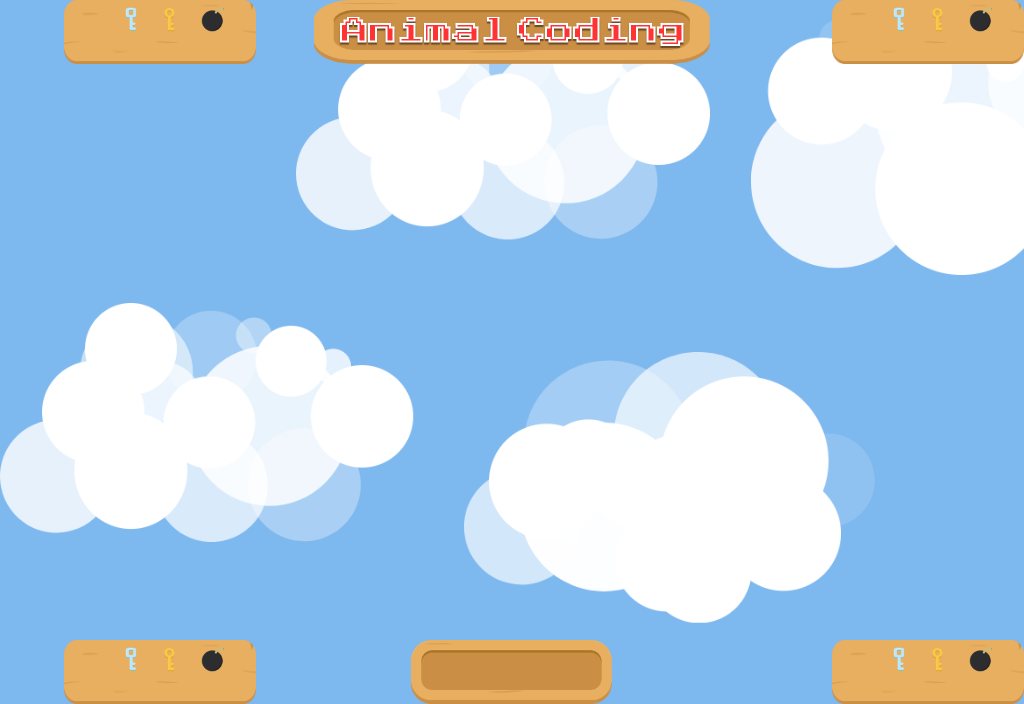
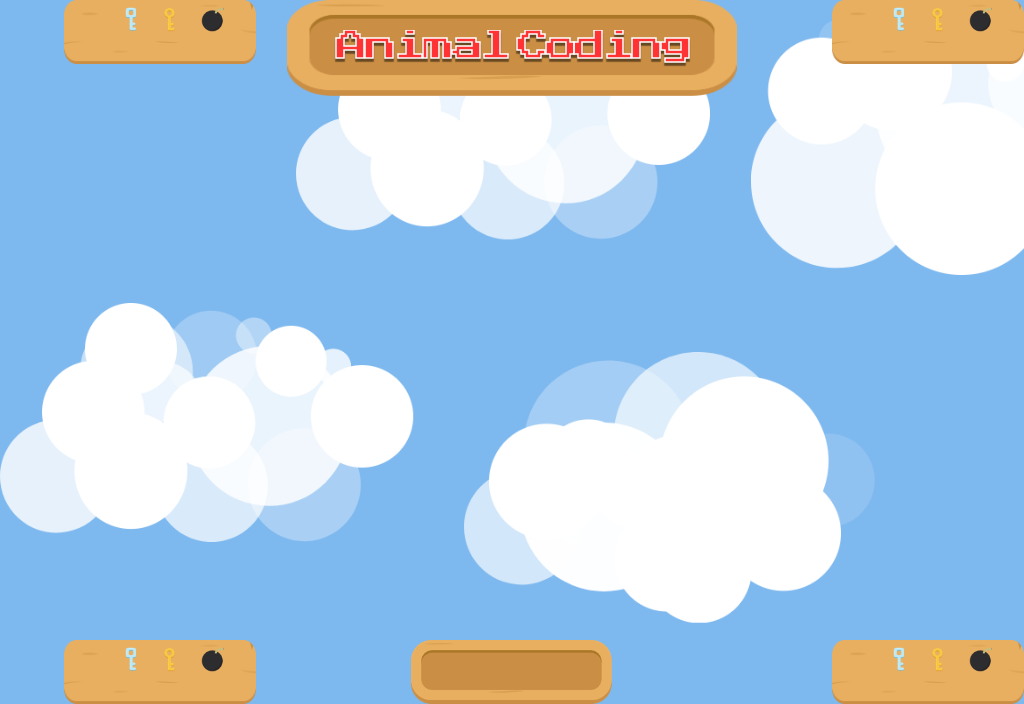
Update button styles and add debug mode

Changed region(s): [[0.2812, 0.0, 0.7188, 0.1562]]

diff --git a/js/main_scene.js b/js/main_scene.js
@@ -34,10 +34,13 @@ class MainScene extends Phaser.Scene {
     this.input.on('pointerdown', () => {
       if(this.dice.isReadyToRoll()) {
         this.dice.roll((diceValue) => {
-          diceValue = 6;
+          if(debug) {
+            diceValue = 6;
+          }
           currentPlayer.changeEnergy(diceValue);
           console.log('Dice value ', diceValue, 'New energy', currentPlayer.energy);
           this.dice.hide();
+          enableButton("run_code");
         });
       }
     });
@@ -50,7 +53,7 @@ class MainScene extends Phaser.Scene {
     this.topLayer = this.map.createLayer("top", stage, 0, 64 );
 //    this.itemsLayer = this.map.createLayer("items", tileset_items, 0, 64 - 32);
 
-    //Manually render non-colliding tiles as a set of images for 3D-like effects
+    //Manually render non-collidable tiles as images for 3D-like effects
     const topLayerData = this.map.getLayer("top").data;
     for (let y = 0; y < topLayerData.length; y++) {
       for (let x = 0; x < topLayerData[y].length; x++) {
@@ -91,7 +94,7 @@ class MainScene extends Phaser.Scene {
 
   changePlayer() {
     currentPlayer.setFrame(currentPlayer.direction);
-    if(currentPlayer.id + 1 >= this.players.length) {
+    if(currentPlayer.id + 1 >= this.players.length || debug) {
       currentPlayer = this.players[0];
     }
     else {

diff --git a/js/game.js b/js/game.js
@@ -73,6 +73,18 @@ function initInterpreter(interpreter, scope) {
   }));
 };
 
+function enableButton(id) {
+  const btn = document.getElementById(id)
+  btn.disabled = false; 
+  btn.classList.remove("is-disabled");
+} 
+
+function disableButton(id) {
+  const btn = document.getElementById(id)
+  btn.disabled = true; 
+  btn.classList.add("is-disabled");
+}  
+
 function runCode() {
   const animationDelay = 510;
   let stack = interpreter.getStateStack();
@@ -92,6 +104,7 @@ let editor;
 let interpreter;
 let game;
 let currentPlayer;
+let debug = true;
 
 const config = {
   type: Phaser.AUTO,
@@ -112,11 +125,18 @@ document.addEventListener("DOMContentLoaded", function(event) {
 
   editor = ace.edit("editor");
   setEditorOptions(editor);
-  editor.setValue("for (i = 0; i < 8; i++) {\n  turn_right();\n  move_forward();\n}")
+  editor.setValue("/*\n-Available commands:\nturn_right();\nmove_forward();\n*/\n")
   game = new Phaser.Game(config);
+  disableButton("run_code");
+  if(debug) {
+    console.log("DEBUG mode enabled!");
+  }
 
   document.getElementById("run_code").addEventListener("click", function() {
     interpreter = new Interpreter(editor.getValue(), initInterpreter);
+
+    console.log(debug);
     runCode();
+    disableButton("run_code");
   });
 });

diff --git a/index.html b/index.html
@@ -5,6 +5,7 @@
   <meta charset="utf-8">
   <meta name="viewport" content="width=device-width">
   <title>Animal Coding</title>
+  <link href="https://unpkg.com/nes.css@2.3.0/css/nes.min.css" rel="stylesheet" />
   <link href="https://cdn.jsdelivr.net/npm/ace-builds@1.24.1/css/ace.min.css" rel="stylesheet">
   <link href="style.css" rel="stylesheet" type="text/css" />
   <script src="https://cdn.jsdelivr.net/npm/phaser@3.60.0/dist/phaser.js"></script>
@@ -24,9 +25,12 @@
       <div id="game-container"></div>
     </div>  
     <div class="column">
-      <div id="editor"></div>
-      <button id="skip" class="nes-btn">Skip</button>
-      <button id="run_code" class="nes-btn is-primary">Run Program</button>
+      <div id="editor">
+      </div>
+      <div id="control">
+        <button id="skip" class="nes-btn">Skip</button>
+        <button id="run_code" class="nes-btn is-primary">Run Code</button>
+      </div>
     </div>
   </div>
 

diff --git a/js/dice.js b/js/dice.js
@@ -7,13 +7,11 @@ class Dice extends Phaser.GameObjects.Container {
 
 
     this.dice = scene.add.mesh(x, y, "dice_albedo").setDepth(10);
-    this.shadowFX = this.dice.postFX.addShadow(0, 0, 0.006, 2, 0x111111, 10, .8);
-
     this.dice.addVerticesFromObj("dice_obj", 0.25);
     this.dice.panZ(6);
-
     this.dice.modelRotation.x = Phaser.Math.DegToRad(0);
     this.dice.modelRotation.y = Phaser.Math.DegToRad(-90);
+    this.shadowFX = this.dice.postFX.addShadow(0, 0, 0.006, 2, 0x111111, 10, .8);
 
     // Text object to show the dice value
     this.textDiceValue = this.scene.add.text(this.scene.scale.width / 2, this.scene.scale.height / 2, '0', { fontFamily: 'Arial Black', fontSize: 74, color: '#c51b7d' });

diff --git a/js/player.js b/js/player.js
@@ -131,6 +131,20 @@ class Player extends Phaser.GameObjects.Sprite {
       });
     }
     else {
+      if (this.direction == CST.UP) {
+        new_x = player.x;
+        new_y = player.y - 32/4;
+      } else if (player.direction == CST.RIGHT) {
+        new_x = player.x + 64/4;
+        new_y = player.y;
+      } else if (player.direction == CST.DOWN) {
+        new_x = player.x;
+        new_y = player.y + 32/4;
+      } else if (player.direction == CST.LEFT) {
+        new_x = player.x - 64/4;
+        new_y = player.y;
+      }
+
       this.scene.sound.play("stuck");
       this.scene.tweens.add({
         targets: this,

diff --git a/style.css b/style.css
@@ -39,6 +39,12 @@ body,
   width: 320px;
 }
 
+#control {
+  padding: 5px;
+  text-align: center;
+}
+
+
 .code-marker {
    position: absolute; 
    background: red
